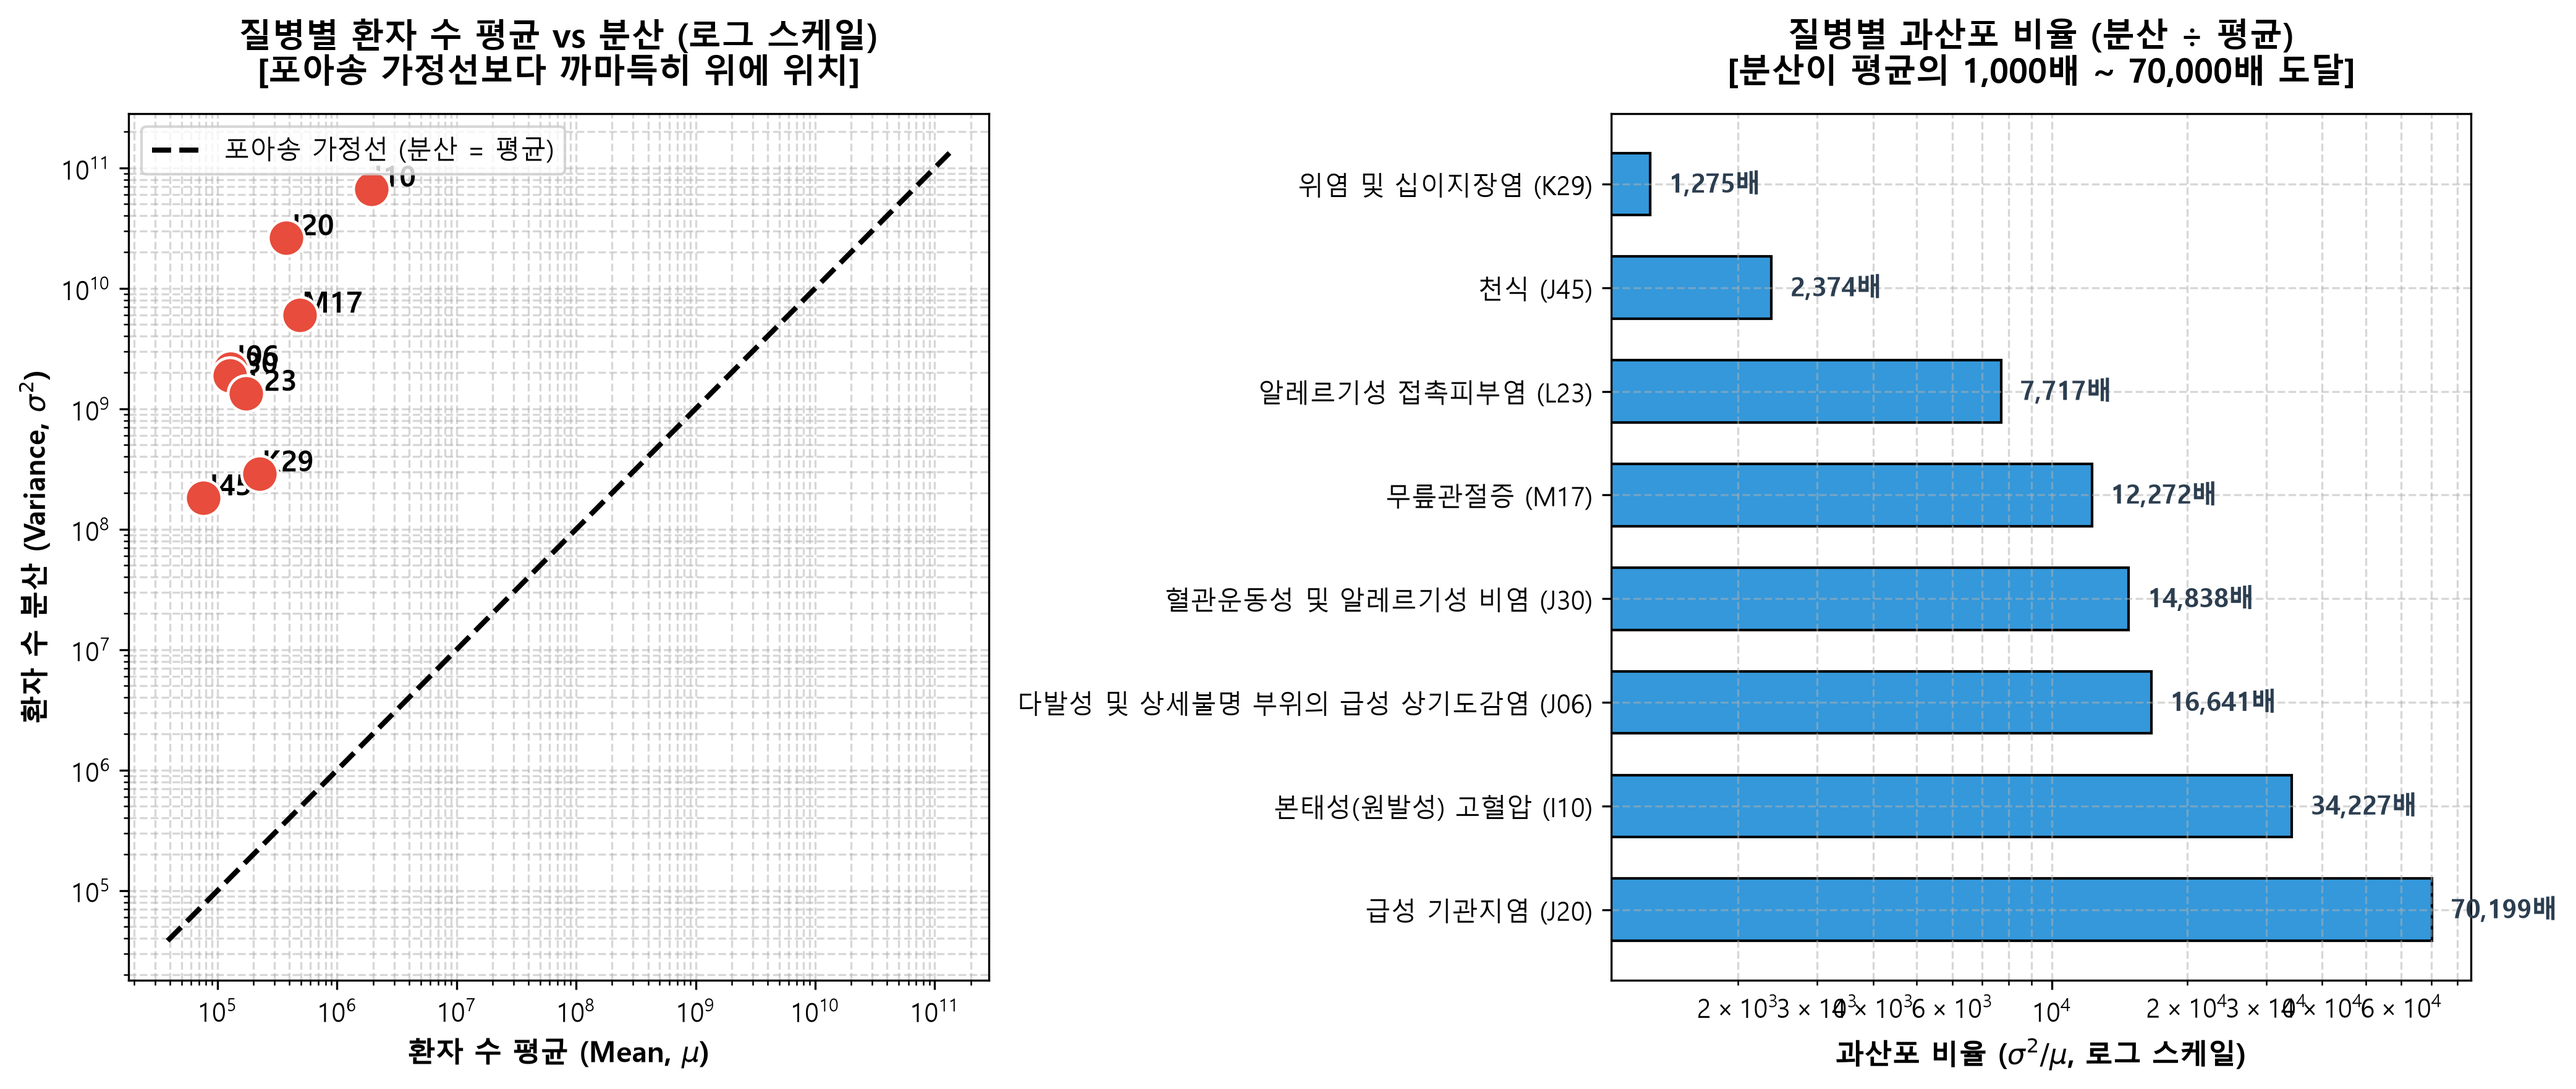
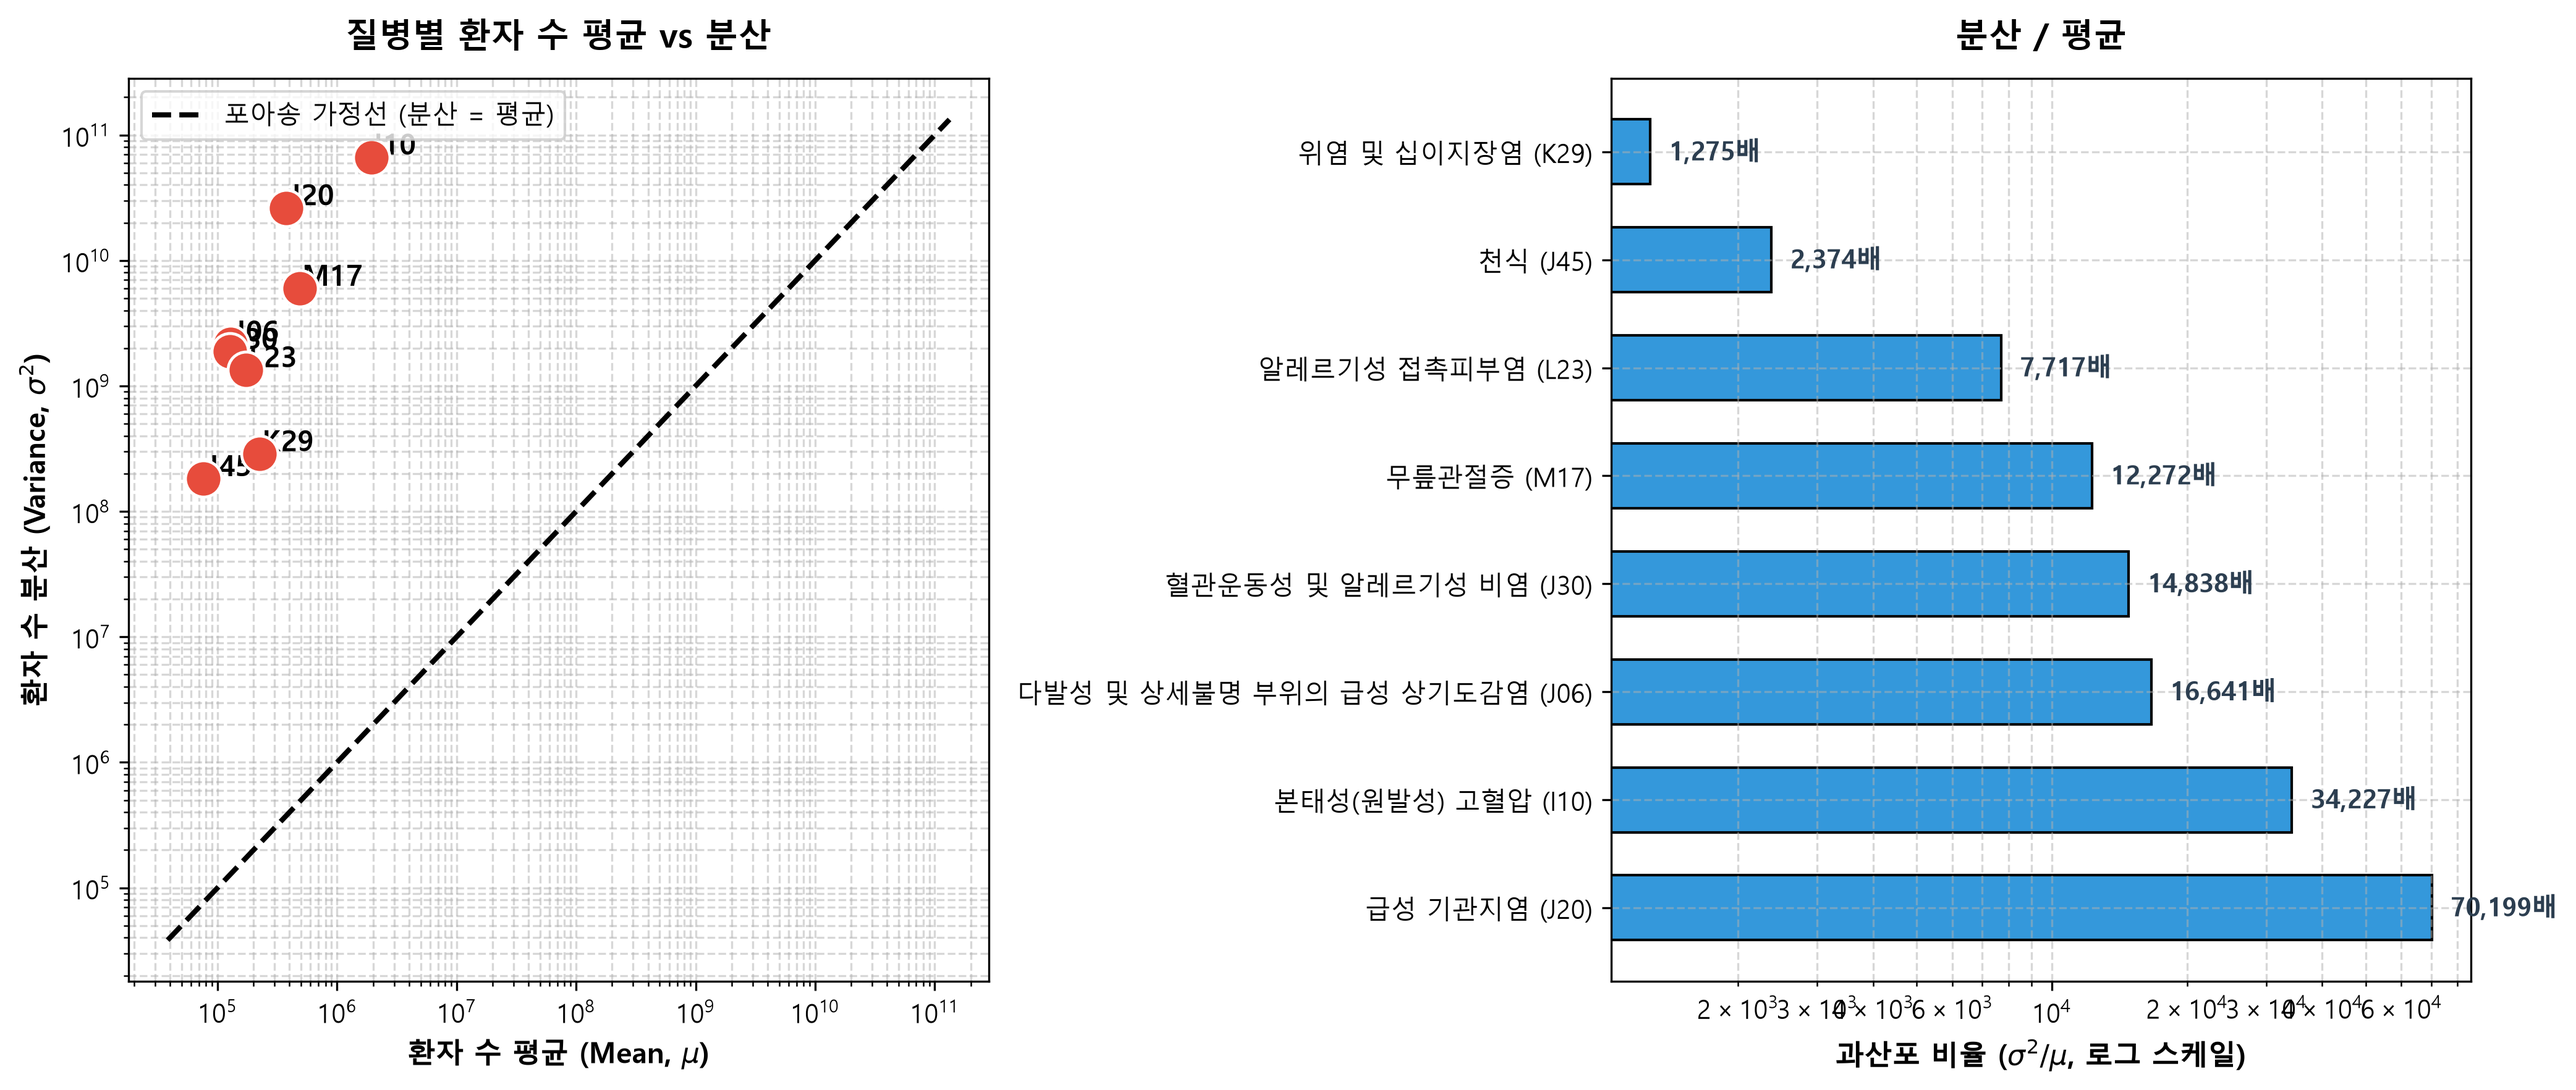
hj_04

diff --git a/disease/aa_1.py b/disease/aa_1.py
@@ -4,12 +4,9 @@ import numpy as np
 import pandas as pd
 import seaborn as sns
 
-# 1. 한글 폰트 설정
 font_names = [f.name for f in fm.fontManager.ttflist]
 if 'Malgun Gothic' in font_names:
   plt.rc('font', family='Malgun Gothic')
-elif 'AppleGothic' in font_names:
-  plt.rc('font', family='AppleGothic')
 else:
   cjk_fonts = [
       f.fname
@@ -21,12 +18,10 @@ else:
     plt.rc('font', family=font_prop.get_name())
 plt.rcParams['axes.unicode_minus'] = False
 
-# 2. 데이터 불러오기 및 주요 8대 질환 추출
 df = pd.read_csv('./disease/combined_data/disease_weather_air_merged.csv')
 target_codes = ['I10', 'J06', 'J20', 'J30', 'J45', 'K29', 'L23', 'M17']
 df_sub = df[df['질병코드'].isin(target_codes)]
 
-# 3. 평균, 분산 및 과산포 비율 계산
 stats = (
     df_sub.groupby(['질병코드', '질병명'])['환자수']
     .agg(['mean', 'var'])
@@ -36,10 +31,8 @@ stats['ratio'] = stats['var'] / stats['mean']
 stats['질병표시'] = stats['질병명'] + ' (' + stats['질병코드'] + ')'
 stats = stats.sort_values('ratio', ascending=False)
 
-# 4. 시각화 그래프 생성
 fig, (ax1, ax2) = plt.subplots(1, 2, figsize=(14, 6))
 
-# [그래프 1] 평균 vs 분산 Scatter Plot (로그 스케일)
 sns.scatterplot(
     data=stats, x='mean', y='var', s=200, color='#E74C3C', ax=ax1, zorder=5
 )
@@ -53,7 +46,6 @@ for i, row in stats.iterrows():
       fontweight='bold',
   )
 
-# 포아송 가정선 (Var = Mean)
 min_val = min(stats['mean'].min(), stats['var'].min()) * 0.5
 max_val = max(stats['mean'].max(), stats['var'].max()) * 2
 x_line = np.logspace(np.log10(min_val), np.log10(max_val), 100)
@@ -62,7 +54,7 @@ ax1.plot(x_line, x_line, 'k--', label='포아송 가정선 (분산 = 평균)', l
 ax1.set_xscale('log')
 ax1.set_yscale('log')
 ax1.set_title(
-    '질병별 환자 수 평균 vs 분산 (로그 스케일)\n[포아송 가정선보다 까마득히 위에 위치]',
+    '질병별 환자 수 평균 vs 분산',
     fontsize=13,
     fontweight='bold',
     pad=12,
@@ -72,7 +64,6 @@ ax1.set_ylabel('환자 수 분산 (Variance, $\sigma^2$)', fontsize=11, fontweig
 ax1.legend(fontsize=10, loc='upper left')
 ax1.grid(True, which='both', ls='--', alpha=0.5)
 
-# [그래프 2] 과산포 비율 (Var / Mean) 수평 바 차트
 bars = ax2.barh(
     stats['질병표시'],
     stats['ratio'],
@@ -82,7 +73,7 @@ bars = ax2.barh(
 )
 ax2.set_xscale('log')
 ax2.set_title(
-    '질병별 과산포 비율 (분산 ÷ 평균)\n[분산이 평균의 1,000배 ~ 70,000배 도달]',
+    '분산 / 평균',
     fontsize=13,
     fontweight='bold',
     pad=12,
